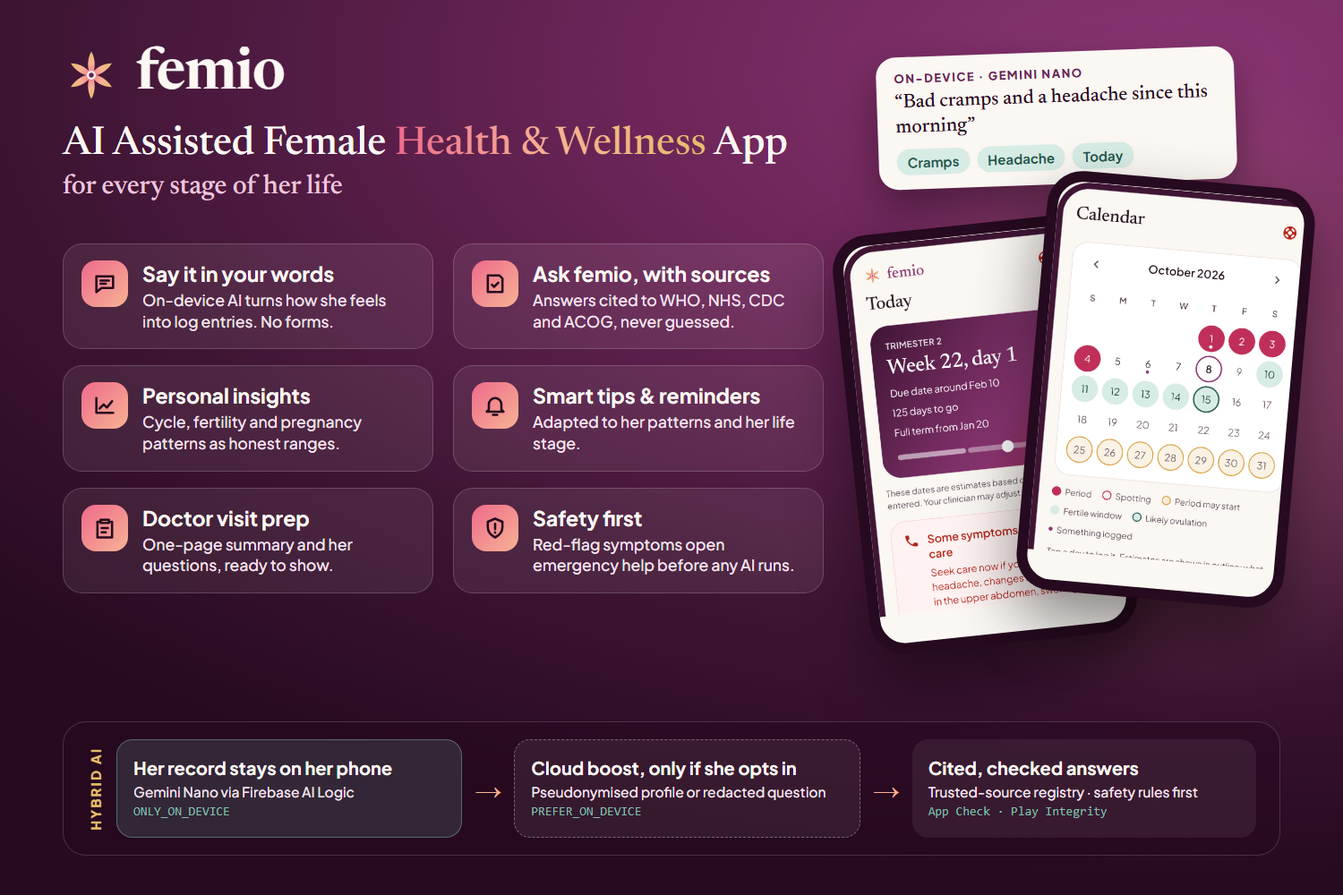
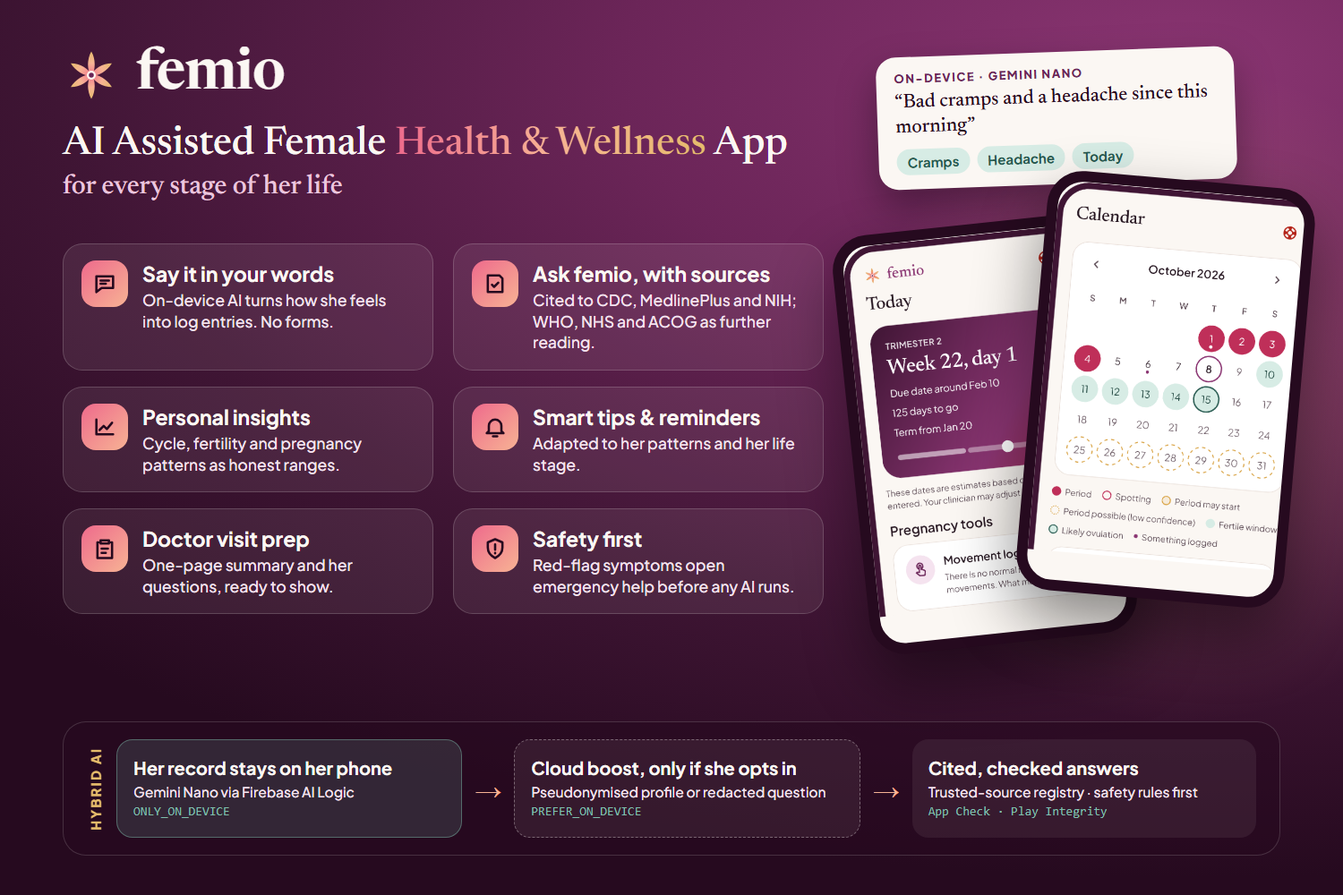
docs(hackathon): video with a real Cloud boost run, Devpost truth pass (R14.5, R14.2)
Video: split diagram, status chip, Say it where Nano adds what the rules miss
(checked against the rules on 2026-11-27), Ask on the phone, one consented
Cloud boost run, the What the AI did ledger, AI off. Devpost: redaction is
numbers, e-mail addresses and links; no network code of its own, with the
AdMob SDK of 29 Oct to 24 Nov named; the tripwire is a CI check on the Dart
code; no identifier from femio, but Google sees the address and an App Check
token; PCOS 10-13% per WHO with links; sleep as a symptom; ledger, What the
AI can see, Say it over several days; testing steps with sideload, the +
path, a question without "we" and the honest App Check path. Thumbnail: WHO,
NHS and ACOG are further reading. DEVPOST.md becomes a pointer.

diff --git a/docs/hackathon/thumbnail.html b/docs/hackathon/thumbnail.html
@@ -52,7 +52,7 @@ h1 em{font-style:normal;background:linear-gradient(90deg,var(--rose-400),var(--p
  <div class="f"><div class="ic"><svg viewBox="0 0 24 24"><path d="M4 5h16v11H9l-5 4z"/><path d="M8 9h8M8 12h5"/></svg></div>
   <div><b>Say it in your words</b><span>On-device AI turns how she feels into log entries. No forms.</span></div></div>
  <div class="f"><div class="ic"><svg viewBox="0 0 24 24"><path d="M5 4h11l3 3v13H5z"/><path d="m9 13 2 2 4-4"/></svg></div>
-  <div><b>Ask femio, with sources</b><span>Answers cited to WHO, NHS, CDC and ACOG, never guessed.</span></div></div>
+  <div><b>Ask femio, with sources</b><span>Cited to CDC, MedlinePlus and NIH; WHO, NHS and ACOG as further reading.</span></div></div>
  <div class="f"><div class="ic"><svg viewBox="0 0 24 24"><path d="M4 19V5M4 19h16"/><path d="m7 15 4-4 3 3 5-6"/></svg></div>
   <div><b>Personal insights</b><span>Cycle, fertility and pregnancy patterns as honest ranges.</span></div></div>
  <div class="f"><div class="ic"><svg viewBox="0 0 24 24"><path d="M6 16V11a6 6 0 0 1 12 0v5l2 2H4z"/><path d="M10 21h4"/></svg></div>

diff --git a/docs/hackathon/DEVPOST_SUBMISSION.md b/docs/hackathon/DEVPOST_SUBMISSION.md
@@ -1,13 +1,20 @@
-# Devpost submission: #BuildHybridAI 2026 (final answers, 2026-11-24)
+# Devpost submission: #BuildHybridAI 2026 (final answers, revised 2026-11-27)
 
-Agent-facing record of what Femio's Devpost entry promises. **The build must match this text exactly.**
+Agent-facing record of what femio's Devpost entry promises. **The build must match this text exactly.**
 Anything not working by the deadline (2026-11-30, 2:00 PM PT) must be cut from the submission text, never faked.
-**Aligned with the build on 2026-11-24 (commits ac3d2e0..d39e1ae, ADR-079).** Cut: medication logging, notification
-wording, the rotating install id, "every path", "two typed values", WHO/NHS/ACOG as answer sources (they are
-further-reading links), Settings → AI (it is Settings → Assistant).
-Owner rulings in force: no "Arabic-first" framing, no Ramadan content; AI grounded in trusted external sources (not
-only Femio's own guides); product is a whole-life AI-assisted app; opt-in pseudonymised personalisation.
-Thumbnail: `docs/hackathon/thumbnail.png` (source `thumbnail.html`, rendered with headless Chrome at 1500x1000).
+**Truth pass 2026-11-27 (R14.2, R14.5), checked against the code at `47fe540`:**
+- redaction now says "numbers, e-mail addresses and links", not names or dates (JUDGE-3, PRIV-1);
+- "no network code" is now "no network code of its own", with the October ad SDK named (JUDGE-5);
+- the tripwire is a CI check covering the Dart code, not a build step (C14, PRIV-16);
+- "identifiers of any kind" is now what is true: femio attaches none, Google still sees the internet address and an App Check token (PRIV-16);
+- PCOS is 10–13% (WHO fact sheet, 22 Jan 2026), with links (JUDGE-16);
+- sleep is a kind of symptom, not its own output (JUDGE-15);
+- testing steps use the real "+" path, a question without "we", the sideload steps and the honest no-Nano and App Check paths (UX-14, JUDGE-10, REL-3);
+- added the ledger, "What the AI can see", Say it over several days and the AI-off switch (JUDGE-12).
+
+Still open before submitting: the APK link and video link (owner, `RELEASE_STEPS.md`), and the real-phone proof run (OWNER_ACTIONS row 43). If Cloud boost has not answered on a real phone by then, cut every sentence that says it does.
+Owner rulings in force: no "Arabic-first" framing, no Ramadan content; answers from trusted external sources; whole-life AI-assisted app; opt-in pseudonymised personalisation.
+Thumbnail: `docs/hackathon/thumbnail.png` (source `thumbnail.html`, headless Chrome at 1500x1000).
 
 ## Project name
 Femio: AI Assisted Female Health & Wellness App
@@ -17,41 +24,43 @@ Private AI women's health app: log symptoms in your words, get answers cited fro
 
 ## About the project
 ## The problem
-A woman's health questions don't wait for clinic hours. At midnight she gets ads, forum guesses, or confident AI answers with no source. The apps that track her health usually ask her to upload the most private data she owns. Infertility alone affects about 1 in 6 people worldwide (WHO, 2023), and PCOS affects an estimated 8–13% of women of reproductive age (WHO fact sheet). Yet good, private, sourced help is still hard to find.
+A woman's health questions don't wait for clinic hours. At midnight she gets ads, forum guesses, or confident AI answers with no source. The apps that track her health usually ask her to upload the most private data she owns. Infertility affects about 1 in 6 people worldwide ([WHO, 2023](https://www.who.int/news/item/04-04-2023-1-in-6-people-globally-affected-by-infertility)), and PCOS affects an estimated 10–13% of women of reproductive age ([WHO fact sheet](https://www.who.int/news-room/fact-sheets/detail/polycystic-ovary-syndrome)). Yet good, private, sourced help is still hard to find.
 
-I'm a physician and clinical claims auditor. I built Femio as the assistant I wanted my own patients to have: useful, sourced and private at the same time.
+I'm a physician and clinical claims auditor. I built femio as the assistant I wanted my own patients to have: useful, sourced and private at the same time.
 
-## What Femio does
-One app for her whole health life. It adapts its emphasis to her life stage without hiding anything: periods and cycle health, trying to conceive, pregnancy, postpartum, PCOS and endometriosis, and perimenopause.
+## What femio does
+One app for her whole health life. It adapts its emphasis to her life stage without hiding anything: periods and cycle health, trying to conceive, pregnancy, the year after birth, PCOS and endometriosis, and perimenopause.
 
-- **Say it in your words.** She types how she feels ("bad cramps and a headache since this morning"). On-device Gemini Nano and femio's phrase rules turn it into structured entries: symptoms, flow, mood, sleep and ovulation tests. No forms.
-- **Ask femio.** Health questions answered only from a library of trusted sources carried on the phone: passages from CDC, MedlinePlus, the US Office on Women's Health and NIH, with further reading from WHO, NHS, ACOG, RCOG and NICE. It works offline. Every answer numbers its sources and shows publisher, link and date. If the sources don't cover it, Femio says so instead of guessing.
+- **Say it in your words.** She types how she feels ("bad cramps and a headache since this morning", or "yesterday light spotting, today cramps"). femio's word rules and, where the phone has it, Gemini Nano on the phone turn it into draft entries for each day she mentions: symptoms (including sleep problems), flow, mood and ovulation tests. She unticks anything wrong; nothing is saved until she taps Save.
+- **Ask femio.** Health questions answered only from a library of trusted sources carried on the phone: passages from CDC, MedlinePlus, the US Office on Women's Health and NIH, with further reading from WHO, NHS, ACOG, RCOG and NICE. It works offline. Every answer numbers its sources and shows publisher, link and date. If the sources don't cover it, femio says so instead of guessing.
 - **Cycle and pregnancy views.** Predictions shown as ranges with confidence, never a single certain date or a verdict.
-- **Personal tips.** Reviewed tips, each with its source, chosen on her phone from her life stage and what she logs; Gemini Nano puts them in order. Reminders stay neutral.
-- **Visit prep.** A one-page summary of her recent months and a personalised question list for her next appointment, ready to show her doctor.
-- **Safety before AI.** Red-flag wording (heavy bleeding with dizziness, reduced fetal movement, warning signs in the year after birth, thoughts of self-harm) opens emergency guidance and local help numbers before any model runs. Femio educates and tracks; it never diagnoses and never replaces a clinician.
-- **Private by design.** No account, no ads, no analytics or tracking SDK in the app. Backup is a file she saves herself. Available in English, Arabic, French and Spanish.
+- **Personal tips.** Reviewed tips, each with its source, chosen on her phone from her life stage and what she logs; Gemini Nano only puts them in order. Reminders stay neutral.
+- **Visit prep.** A one-page summary of her recent months and a question list for her next appointment; she can write her worry in her own words and femio offers reviewed questions to match.
+- **She can check the AI.** "What the AI can see" lists, for each AI feature, where it runs and exactly what it receives. "What the AI did" is a list, kept only on her phone, of every model call; for a Cloud boost call it keeps the exact text that was sent, as her receipt.
+- **AI off, everything still works.** One switch turns every AI use off, on the phone and in the cloud. Each feature then answers from femio's rules and shows the sources word for word.
+- **Safety before AI.** Red-flag wording (heavy bleeding with dizziness, reduced fetal movement, warning signs in the year after birth, thoughts of self-harm) opens emergency guidance and local help numbers before any model runs. femio educates and tracks; it never diagnoses and never replaces a clinician.
+- **Private by design.** No account, no ads, no analytics or tracking SDK in the app. Backup is a file she saves herself. The app has no network code of its own: it reaches the internet only through Firebase AI Logic and App Check, Android's AICore (to download Gemini Nano), and Google Play (updates, ratings, purchases). Available in English, Arabic, French and Spanish.
 
-## How Femio uses Firebase AI Logic: hybrid inference with privacy built into the code
-1. **Her raw record stays on the phone.** Logging from her words, answers to questions about her, and the order of her tips and visit questions run ONLY_ON_DEVICE on Gemini Nano. If Nano isn't available, the feature falls back to deterministic rules on the phone, never silently to the cloud.
-2. **Opt-in cloud boost, pseudonymised only.** If she switches it on, the phone builds a `PseudonymisedProfile`: coarse, derived features only (cycle-regularity band, life stage, symptom categories, logging streak). No dates, free text, names, contacts or identifiers of any kind; no account. The consent screen shows her own values, names Google as processor, where and how long, and asks per purpose (one unticked box for general questions, one for tips) before an "I agree" button; the app keeps a dated, versioned record of her choice. The cloud is offered every tip for her life stage, never the subset that fits her. She can switch it off at any time, and that is recorded too.
-3. **General questions are redacted first.** A question with no personal details is cleaned on the phone into `CloudSafeText` (numbers, dates, names, contacts removed), and she sees and approves the exact text before it may use the cloud model.
-4. **Grounded, never from memory.** Every answer retrieves passages from a versioned registry of trusted sources bundled on the phone. The model may only summarise them and must cite them by number; an answer that cites nothing is discarded and the passages are shown word for word. Tips and visit questions are reviewed sentences with sources; the model only puts them in order.
-5. **Rules outrank the model.** Red flags and birth-control questions are handled by fixed, reviewed rules that run first and always win.
-6. **App Check on every call:** debug provider in development, Play Integrity in release.
+## How femio uses Firebase AI Logic: hybrid inference with privacy built into the code
+1. **Her record stays on the phone.** Logging from her words, answers to questions about her, and the order of her tips and visit questions run with `ONLY_ON_DEVICE` on Gemini Nano. If Nano isn't available, the feature falls back to deterministic rules on the phone, never silently to the cloud; a private reply that did not run on the device is discarded.
+2. **Opt-in Cloud boost, pseudonymised only.** Only on a phone without Nano, and only if she agrees, the hybrid call (`PREFER_ON_DEVICE`, cloud Gemini model) may receive her `PseudonymisedProfile`: four coarse bands (life stage, cycle regularity, kinds of symptom, logging streak). No dates, no free text, intimate terms excluded, and femio attaches no account or identifier; like any connection, Google still sees the phone's internet address and an App Check token. The consent screen shows her own values, names Google as processor, where and how long, and asks per purpose (one unticked box for general questions, one for tips) before an "I agree" button; the app keeps a dated, versioned record of her choice. The cloud is offered every tip for her life stage, never the subset that fits her. She can switch it off at any time, and that is recorded too.
+3. **General questions are cleaned first, and she approves the exact text.** A question written about herself ("I", "my", "we" and their Arabic, French and Spanish forms) stays on the phone. Any other question becomes `CloudSafeText`: numbers, e-mail addresses and links are removed, and she sees and can edit the exact text in a box before anything is sent.
+4. **Grounded, never from memory.** Every answer retrieves passages from a versioned registry of trusted sources bundled on the phone. The model may only summarise them and must cite them by number; an answer that cites nothing is discarded and the passages are shown word for word. No Google Search grounding, no tools. Tips and visit questions are reviewed sentences with sources; the model only puts them in order.
+5. **Rules outrank the model.** Red flags and birth-control questions are handled by fixed, reviewed rules that run first and always win, and run again before a cloud send.
+6. **App Check on every call:** debug provider in development, Play Integrity in release. femio uses no other Firebase product: Analytics and Remote Config would add a per-install identifier, and Auth an account, which the privacy promise rules out.
 
-The privacy boundary is enforced by the compiler and the build: the cloud-capable call accepts one type, `CloudPrompt`, which can be built only from a `CloudSafeText` question or the `PseudonymisedProfile`; a build-time tripwire fails if that changes, if search grounding is wired in, or if network code appears outside the one allowed layer.
+The privacy boundary is enforced by the type system and checked in CI: the cloud-capable call accepts one type, `CloudPrompt`, which can be built only from a `CloudSafeText` question or the `PseudonymisedProfile`. A privacy tripwire in CI fails if that changes, if search grounding is wired in, if Firebase appears outside the Kotlin assistant package, or if the app's Dart code gains network code. One gateway is the only caller of the model; it waits at most 20 seconds and returns the rules answer on any failure.
 
 ## How I built it
-- Flutter app; Firebase AI Logic calls in a Kotlin layer behind one method channel.
+- Flutter app; Firebase AI Logic calls in a Kotlin layer behind one method channel and one gateway.
 - One domain layer holds every medical threshold and prediction rule, bound by golden fixtures shared with the website.
 - Companion website (Next.js, static) with cited articles and interactive calendar calculators.
-- Hundreds of unit tests plus guards for wording, translations, medical claims and crisis content before every commit.
+- Over 800 unit and widget tests (812 pass in the public repo; its screenshot tests are skipped there), plus guards for wording, translations, medical claims and crisis content before every commit.
 
 ## Challenges
-- **Languages.** On-device Gemini Nano is validated mainly for English; other languages go through a phrase lexicon first and the model is used for classification and extraction.
-- **Trust.** Limiting the model to retrieved, cited passages, and letting it say "I don't know", mattered more than any prompt.
-- **Provable privacy.** Typed boundaries, opt-in consent and a failing build make it checkable.
+- **Languages.** On-device Gemini Nano is validated for English and Korean; other languages go through a phrase lexicon first and the model is used for classification and extraction.
+- **Trust.** Limiting the model to retrieved, cited passages, and letting it say "not covered", mattered more than any prompt.
+- **Provable privacy.** Typed boundaries, opt-in consent with a receipt, an on-phone ledger and a CI tripwire make it checkable.
 
 ## What I learned
 Hybrid AI is at its best when the device/cloud split follows the data's sensitivity. In health, the model should choose and explain, never invent.
@@ -63,27 +72,29 @@ Google Play release, iOS with Apple Foundation Models through Firebase AI Logic,
 Firebase AI Logic, Gemini Nano, Gemini API, Firebase App Check, Play Integrity, Flutter, Dart, Kotlin, Android, Next.js, TypeScript, Tailwind CSS, next-intl, Vercel
 
 ## Other fields
-- Try it out: https://femioapp.com · <public GitHub repo> · <APK link>
-- Video: <YouTube, ≤3 min, English>
+- Try it out: https://femioapp.com · https://github.com/KhaledHassanein/femio-app · APK: <https://github.com/KhaledHassanein/femio-app/releases/tag/v1.0.0-hackathon> (live after `RELEASE_STEPS.md` B)
+- Video: <YouTube, public, ≤3 min, English>
 - Submitter: Individual · Egypt · KM Digital Labs · start date 07-21-26 · Existing · Platform: Android
 
 ## What existed vs what I built
-Before Nov 11, 2026: Femio was an unfinished prototype in development. The app had never been released and had no users. What existed was an early Flutter tracker (records kept on the phone, backup file, PIN lock), shared medical rules with test fixtures, four-language scaffolding, a draft store listing that was never published, and a companion website with articles and calendar calculators. The prototype had no AI features and no network code.
+Before Nov 11, 2026: femio's app had never been released and had no users. What existed was a Flutter tracker (records kept on the phone, backup file, PIN lock), shared medical rules with test fixtures, four-language scaffolding, and a signed release candidate (0.5.0) with a draft store listing that was never published. The companion website with articles and calendar calculators has been public at femioapp.com since October 2026. The app had no AI features and no network code of its own; an ad SDK (AdMob) added on 29 October 2026 was removed on 24 November 2026, during the period, when I decided the app ships no ads.
 
-Built during the submission period: the AI layer across the whole app. That covers on-device logging from her own words; Ask femio grounded in a trusted-source registry with citations; personal tips and visit questions with sources; visit prep; the opt-in cloud boost with the pseudonymised profile and consent flow; redaction; the Kotlin Firebase AI Logic bridge with hybrid inference and App Check; the updated privacy tripwire; and the public Apache-2.0 repository.
+Built during the submission period (the public repo's HISTORY.md lists the commits with dates): the AI layer across the whole app. That covers on-device logging from her own words, over several days in one note; Ask femio grounded in a trusted-source registry with citations; personal tips and visit questions with sources, and the visit companion; the opt-in Cloud boost with the pseudonymised profile and recorded consent; redaction; the Kotlin Firebase AI Logic bridge with hybrid inference and App Check; one gateway with typed prompts; "What the AI can see", the "What the AI did" ledger and the AI-off switch; the updated privacy tripwire; and the public Apache-2.0 repository. Also new in the period: removing in-app ads, her health record with documents and medicines, the after-birth and perimenopause views, and the calendar's widening ranges.
 
 ## Main technology requirement
-Femio's Android app imports and calls Firebase AI Logic at runtime (Kotlin layer, assistant/FemioAssistant.kt) using hybrid inference with Gemini Nano. Requests involving her record run ONLY_ON_DEVICE. With her opt-in, a pseudonymised derived profile, and general questions redacted on the phone, may use PREFER_ON_DEVICE with a cloud Gemini model. All answers are grounded in a registry of trusted medical sources and shown with citations. Firebase App Check protects every call (debug provider in development, Play Integrity in release).
+femio's Android app imports and calls Firebase AI Logic at runtime (Kotlin layer, `assistant/FemioAssistant.kt`) using hybrid inference with Gemini Nano. Requests involving her record run `ONLY_ON_DEVICE`. With her opt-in, on a phone without Nano, a pseudonymised four-band profile, or a general question she approved after redaction on the phone, may use `PREFER_ON_DEVICE` with a cloud Gemini model. All answers are grounded in a bundled registry of trusted medical sources and shown with citations. Firebase App Check protects every call (debug provider in development, Play Integrity in release).
 
 ## Testing instructions
-No account or login needed.
-1. Install the APK on an Android phone that supports Gemini Nano (for example, a recent Pixel).
-2. Log: tap "Say it in your words", type "bad cramps and a headache since this morning", check the structured entries.
-3. Ask femio: ask "How long should we try to conceive before seeing a doctor?" and check the cited sources.
-4. Safety: in Ask femio type "heavy bleeding and dizzy"; ACOG's emergency guidance and Help now open before any AI runs.
-5. Settings → Assistant → Cloud boost: off by default; switching it on opens the consent screen showing exactly which pseudonymised features it would send, with one box per purpose and an "I agree" button.
-On a phone without Nano, Ask femio shows the trusted passages word for word and every feature still works on rules; with Cloud boost on, a general question can be summarised in the cloud after she approves it. The cloud call is protected by Firebase App Check (Play Integrity), so on an APK installed outside Google Play it may be refused; Ask femio then shows the passages word for word, as designed.
+No account or login needed. Android 8.0 or later, 64-bit.
+1. **Install.** Download the APK from the GitHub Release (<APK link>) on the phone. Allow your browser to install unknown apps when asked, open the file, and if Play Protect warns, tap More details, then Install anyway. Finish the short setup.
+2. **Say it.** Tap **+** in the navigation bar, then "Tell femio anything, like “cramps since this morning”". Type *yesterday light spotting, today cramps and I could sleep for a week*, tap **Turn into log entries**, check the two days of chips, untick anything wrong, and tap **Save**.
+3. **Ask femio.** On Today, tap **Ask femio**, type *When should a couple see a doctor about getting pregnant?* and tap **Ask**. Check the numbered sources (publisher, link, date). On a Gemini Nano phone the answer says "Summarised on your phone by Gemini Nano"; otherwise it says "Word for word from trusted sources".
+4. **Safety.** In Ask femio type *heavy bleeding and dizzy*: ACOG's emergency guidance and Help now appear before any AI runs.
+5. **See what the AI did.** Settings → Assistant → "What the AI can see" (each feature and what it receives) and "What the AI did" (every model call).
+6. **AI off.** Settings → Assistant → turn off "Use the assistant". Ask femio (step 3) and Log → **Say it in your words** still work, on femio's rules (with the assistant off, the "+" sheet hides its AI shortcuts).
+7. **Cloud boost.** Settings → Assistant → Cloud boost opens the consent screen with your own four values and one box per purpose. **App Check enforcement is on, and the release APK uses Play Integrity, so on an APK installed outside Google Play the cloud call is expected to be refused.** You will still see the exact question to approve; after "Summarise with Cloud boost" femio shows the sources word for word. The video shows a real Cloud boost run (1:30).
+**On a phone without Gemini Nano (most phones today), steps 1 to 6 all work:** Say it uses femio's word rules, Ask femio shows the trusted passages word for word, and nothing leaves the phone unless you agree to Cloud boost.
 The repo contains no keys or credentials; Firebase config lives in a git-ignored file (see README).
 
 ## License
-Apache-2.0 at `<public-repo>/blob/main/LICENSE`, visible in the repo's About section.
+Apache-2.0 at `https://github.com/KhaledHassanein/femio-app/blob/main/LICENSE`, visible in the repo's About section.

diff --git a/docs/hackathon/VIDEO_SCRIPT.md b/docs/hackathon/VIDEO_SCRIPT.md
@@ -1,19 +1,47 @@
-# Demo video script (under 3 minutes, English, YouTube)
+# Demo video script (under 3 minutes, English, public on YouTube)
 
-Agent doc: the owner records it from the hackathon pack page. Rewritten 2026-11-24 for ADR-079 (registry
-answers, Cloud boost, For you tips); the Google Search shot and the Arabic shot are gone. Screen-record the
-phone (Android: quick settings → Screen record) on a phone where Settings → Assistant shows Gemini Nano
-"Ready". Before recording: a profile trying to conceive for 6 to 12 months, a few days of cramps and
-tiredness logged, Cloud boost off. Voice-over in English; times are targets.
+Agent doc; the owner reads it through `OWNER_GUIDE.html` section 12. Rewritten 2026-11-27 for R14.5
+(JUDGE-8, UX-9, UX-10, UX-12, UX-17): it now shows one real Cloud boost run and the "What the AI did"
+ledger. Button names are the app's English strings (`apps/mobile/lib/l10n/app_en.arb`); words in
+quotes are what the screen says. Rules §6: at most 3 minutes are judged; the video must be public on
+YouTube and show the app working on Android.
+
+## Before recording
+
+- **Phone A (Gemini Nano):** Settings → Assistant shows "AI on your phone (Gemini Nano)" with
+  "Ready. It reads your notes on the phone; nothing is sent." Cloud boost "Off". A profile trying
+  to conceive for 6 to 12 months, with a few days of cramps and tiredness logged.
+- **Phone B (no Nano, or the emulator):** the **debug** build with `assistant.env`, its App Check
+  debug token registered in the Firebase console (OWNER_ACTIONS row 25), Cloud boost not yet agreed.
+  A release APK installed outside Google Play is expected to fail Play Integrity, so do not use it
+  for the cloud shot.
+- Record each phone with Android's Screen record (quick settings). Use only real captures: no
+  synthetic test render anywhere in the video (UX-10).
+- Device-test the two sentences below on Phone A first. Checked on 2026-11-27 against femio's
+  rules only (synthetic run, no model): the rules find **Cramps** in sentence 1 and **nothing** for
+  "my jeans will not button, I feel like a balloon"; that is the part Gemini Nano should add as
+  **Bloating**. If Nano does not add it on the phone, pick another sentence the same way; never
+  edit the chips by hand on camera.
+- The Today status chip is R14.6 (another session). If it has not shipped when you record, use
+  Settings → Assistant for shot 2 instead, and read the chip's words from the phone, not from here.
+
+## Shots
 
 | Time | Screen | Say |
 |---|---|---|
-| 0:00–0:15 | Today, scrolled to the For you card | "femio is a women's health app where her record never leaves her phone. Here's how hybrid AI makes it more useful without breaking that promise." |
-| 0:15–0:25 | Settings → Assistant: Gemini Nano "Ready", Cloud boost "Off" | "Gemini Nano runs on this phone through Firebase AI Logic. The cloud is off unless she turns it on." |
-| 0:25–0:50 | Log → Say it in your words. Type: *"bad cramps, light bleeding and so tired"*. Tap Turn into log entries, then Add | "She writes one sentence instead of forty taps. femio's rules and Gemini Nano, on the phone, turn it into entries she confirms. The sentence is never saved or sent." |
-| 0:50–1:10 | Today → For you card; tap one "Source" link | "Tips chosen on her phone from her stage and what she logs. Each one is a reviewed sentence with its source. Nano only puts them in order; it can't write a tip." |
-| 1:10–1:25 | Today → Visit summary | "A page for her doctor, counted from her own log, with sourced questions for her stage." |
-| 1:25–2:00 | Today → Ask femio. Type: *"I'm 34 and my cramps are awful, what can I do?"* Tap Ask. Scroll to Sources | "A personal question, so it stays on the phone. femio finds passages in a library of trusted sources it carries, here MedlinePlus, and Gemini Nano summarises them with numbered citations. No source, no answer." |
-| 2:00–2:15 | Ask another question: *"heavy bleeding and dizzy"* | "Safety rules run before any model. This shows ACOG's emergency guidance and the help page." |
-| 2:15–2:40 | Settings → Assistant → tap the Cloud boost switch; show the consent screen; tap Not now | "On a phone without Nano she can choose Cloud boost. This screen shows exactly what could be sent: four broad facts and general questions she approves. Never her notes or dates." |
-| 2:40–2:55 | Back to Today | "On-device for her data, sourced answers, rules above both. In English, Arabic, French and Spanish. That's femio." |
+| 0:00–0:12 | **Split diagram** (a slide, or the thumbnail's strip): left "On this phone · Gemini Nano · `ONLY_ON_DEVICE` · her record and her words"; right "Cloud boost · opt-in · `PREFER_ON_DEVICE` · an approved general question or four broad facts"; across the top "Safety rules first". | "femio is a women's health app where her record never leaves her phone. Firebase AI Logic lets us split the AI by how sensitive the data is: anything from her record runs on Gemini Nano, on the phone. The cloud is opt-in, and only for things that say nothing about her." |
+| 0:12–0:22 | Phone A, **Today**: the status chip ("Gemini Nano · on this phone"). Tap it to open Settings → Assistant: "Ready", Cloud boost "Off. Everything is done on this phone." | "This chip always says where the AI runs. Here: Gemini Nano, on this phone. Cloud boost is off." |
+| 0:22–0:52 | Phone A: tap **+** → "Tell femio anything, like “cramps since this morning”". Type *"cramps since this morning and my jeans will not button, I feel like a balloon"*. Tap **Turn into log entries**. Chips: **Cramps** and **Bloating**; the note "This runs on your phone. Your words are not saved or sent anywhere. Gemini Nano, the AI on your phone, helped with this." Tap **Save 2 entries on 1 day**. | "She writes one sentence instead of tapping through forms. femio's word rules found cramps. They don't know 'I feel like a balloon'; Gemini Nano, on the phone, adds bloating. She checks every chip, and nothing is saved until she taps Save. It also reads 'yesterday… today…' into separate days." |
+| 0:52–1:20 | Phone A: Today → **Ask femio**. Type *"I'm 34 and my cramps are awful, what can I do?"*. Tap **Ask**. Show the label "Summarised on your phone by Gemini Nano, from the sources below", the numbered citations, then scroll to **Sources** (MedlinePlus, NICHD, each with its date). | "A personal question, so it stays on the phone. femio carries a library of passages from trusted public sources, like MedlinePlus and NIH. Nano may only summarise them and must cite them by number; an answer that cites nothing is thrown away and she reads the sources word for word." |
+| 1:20–1:30 | Phone A: Ask *"heavy bleeding and dizzy"*. | "Safety rules run before any model. This shows ACOG's emergency guidance and the help page; no model is called." |
+| 1:30–2:12 | Phone B: Settings → Assistant → **Cloud boost**. The consent screen: "What may be sent" with her own four values, "What is never sent", "Who receives it, and where". Tick the "General questions" box, tap **I agree**; show "You agreed on … to: General questions." Then Ask femio *"What helps with period cramps?"* → **Ask**. Show "This is exactly the question that will be sent, with the public sources:" and the editable text. Tap **Summarise with Cloud boost**. Show "Summarised by Google's cloud AI (Cloud boost), from the sources below". | "This phone has no Gemini Nano. She can opt in to Cloud boost: the screen shows her own values, who receives what, and one box per purpose. Her choice is saved as a dated receipt. Now a general question: femio removes numbers, e-mail addresses and links, and she sees and can edit the exact text. Only that text and the public passages go to the cloud model, protected by App Check, and the answer still cites its sources." |
+| 2:12–2:32 | Phone B: Settings → Assistant → **What the AI did**: an entry "Sent with Cloud boost", open **Exactly what was sent**. Then back → **What the AI can see** for two seconds. (Phone A's list shows "On this phone (Gemini Nano)" entries.) | "Every model call is listed on her phone. For Cloud boost she keeps a receipt of exactly what was sent. And 'What the AI can see' lists, for each feature, the only things it receives." |
+| 2:32–2:52 | Phone A: Settings → Assistant → turn off **Use the assistant** ("Off: femio answers from its rules and guides only. No AI runs, on the phone or in the cloud."). Log → **Say it in your words** (the "+" shortcut hides while the assistant is off), the same sentence → Cramps only. Today → Ask femio → "Word for word from trusted sources". | "And she can switch the AI off. No model runs anywhere, and every feature still works: rules log her words, and Ask femio shows the sources word for word. The AI is a companion, never the engine." |
+| 2:52–2:58 | Today. | "femio. Private by design, hybrid by choice." |
+
+## After recording
+
+- Check the length is under 3:00, upload to YouTube as **Public**, English title
+  "femio: private women's health app with hybrid AI (Firebase AI Logic, Gemini Nano)".
+- Put the link in `DEVPOST_SUBMISSION.md` ("Video") and the Devpost form.
+- The same captures replace the synthetic Ask store image (UX-9) and any Devpost gallery image.

diff --git a/docs/hackathon/DEVPOST.md b/docs/hackathon/DEVPOST.md
@@ -1,70 +1,19 @@
-# #BuildHybridAI submission: femio (SUPERSEDED)
+# #BuildHybridAI submission: femio (SUPERSEDED, pointer only)
 
-> **Superseded 2026-11-24 by `DEVPOST_SUBMISSION.md`** (ADR-079: registry answers replaced Google Search
-> grounding, Cloud boost added). Do not paste from this file; it is kept for the record only.
+> **Do not paste from this file.** The text to submit is `DEVPOST_SUBMISSION.md` (truth pass
+> 2026-11-27). The demo video is `VIDEO_SCRIPT.md`; publishing the repo and the APK is
+> `RELEASE_STEPS.md`.
 
-Agent doc: the owner reads these through the hackathon pack page; a session keeps them in step
-with the code. Every claim below is checked against the repository at the commit named in the
-PROGRESS line R7.5. Nothing here is a medical claim.
+This file held the first draft (2026-11-24, before ADR-079). Its body was removed on 2026-11-27
+because it described a design the app no longer has, and a judge comparing it with the code would
+find contradictions. It is in git history (`git log -- docs/hackathon/DEVPOST.md`). What it got
+wrong, so no later draft brings it back:
 
-## Project name
-femio: AI-assisted women's health and wellness
-
-## Tagline (under 200 characters)
-A private period, fertility, pregnancy and menopause companion: Gemini Nano reads her own words
-on her phone; the cloud answers only general questions, from trusted health sources.
-
-## What it does
-femio is a women's health and wellness app in English, Arabic, French and Spanish. Her record
-(cycles, symptoms, moods, ovulation tests, temperatures, pregnancy logs) lives only on her phone:
-no account, no server.
-
-The hybrid assistant adds three things:
-- **Say it in your words.** She types or dictates one sentence ("bad cramps, light bleeding, so
-  tired", or the same in Egyptian Arabic) and it becomes log entries. femio's phrase rules read it
-  on the phone, and Gemini Nano (`ONLY_ON_DEVICE`) adds what the rules missed. She confirms the
-  chips before anything is saved; the sentence itself is never stored or sent.
-- **Visit summary.** One page for her doctor, counted from her own log (cycle range, the symptoms
-  she logged most, heavy-flow days, ovulation tests), with questions picked from a reviewed bank.
-  Gemini Nano orders the questions for her, on the phone; it can never add one.
-- **Ask femio.** A health question answered from trusted sources. A personal question ("I'm 34 and
-  my cramps are awful") is first rewritten on the phone by Gemini Nano into a general one ("What
-  helps with period cramps?"). She sees and can edit the exact text before it leaves. Only then is
-  it sent to the cloud model with Grounding with Google Search, and the answer is shown only when at
-  least one source is on femio's trusted list (WHO, NHS, CDC, NIH, ACOG, RCOG, NICE, ASRM, ESHRE,
-  and the Saudi and Egyptian health ministries). Every source and Google's search suggestions are
-  shown with the answer.
-
-## How we built it
-- Flutter app; Firebase AI Logic (`firebase-ai` 18.2.0, `firebase-ai-ondevice` 16.0.0-beta08)
-  called from Kotlin behind one method channel, so the Dart code holds no network client.
-- **Private by type.** The cloud call accepts only a `CloudSafeText`, a Dart type whose constructor
-  is private to the redaction step (first-person wording refused, numbers, links and contacts
-  stripped). A privacy tripwire in CI fails the build if Firebase appears outside the Kotlin
-  assistant package or if the cloud call stops requiring `CloudSafeText`.
-- **Rules before models.** Safety rules in four languages run first: crisis and urgent signs open
-  the help page with local crisis lines, pregnancy warning signs open the warning-signs screen,
-  and birth-control questions get a fixed answer. None of these reach a model.
-- **Works without AI.** With no Gemini Nano on the phone, the rules still turn sentences into log
-  entries and the visit summary still works; with no cloud config, Ask femio shows femio's guides.
-- App Check: the debug provider in debug builds, Play Integrity in release.
-- 46 new tests (31 domain, 15 widget) plus screenshots at 390×844 in light, dark and Arabic.
-
-## Challenges
-- Gemini Nano is validated for English and Korean; our users write Arabic dialects. The model gets
-  short English instructions and returns keys from a fixed vocabulary, and a four-language phrase
-  lexicon is the floor it builds on.
-- Health data and the cloud: we drew the line in code, not in a policy.
-
-## What's next
-Postpartum and perimenopause depth, iOS, and a reviewed Arabic evaluation set for the on-device
-extraction.
-
-## What was built in the hackathon period (since 11 November 2026)
-The whole hybrid assistant: the on-device and cloud paths, the Kotlin bridge, the redaction type,
-the trusted-source allowlist, the safety rules, the three screens in four languages, and their
-tests. Before the period femio was an unreleased offline tracker with no AI.
-
-## Built with
-flutter, dart, kotlin, firebase-ai-logic, gemini-nano, gemini, google-search-grounding,
-firebase-app-check, android
+| The old draft said | The code does (ADR-079, ADR-080, ADR-081) |
+|---|---|
+| Ask femio sends a rewritten question to the cloud with Google Search grounding (`ONLY_IN_CLOUD`), filtered by a trusted-host list | Answers come only from the bundled trusted-source registry; Gemini Nano summarises on the phone (`ONLY_ON_DEVICE`); Cloud boost is opt-in, off by default, and uses `PREFER_ON_DEVICE` with no tools; the tripwire forbids search grounding |
+| WHO, NHS, CDC, ACOG and others are answer sources | Passages are copied only from US federal public-domain publishers (CDC, MedlinePlus, Office on Women's Health, NIH institutes); WHO, NHS, ACOG, RCOG and NICE are further-reading links |
+| The cloud call accepts a `CloudSafeText` | It accepts only a `CloudPrompt`, built from a `CloudSafeText` question or a `PseudonymisedProfile` |
+| Redaction strips names and dates | It removes numbers, e-mail addresses and links; she sees and edits the exact text before it is sent |
+| Before the period, femio was an offline tracker with no network code | The app had no AI and no network code of its own, but carried an ad SDK from 29 Oct to 24 Nov 2026 (removed by ADR-080) |
+| "46 new tests" | 812 tests pass in the public export (2026-11-27); the count grows with every change |
